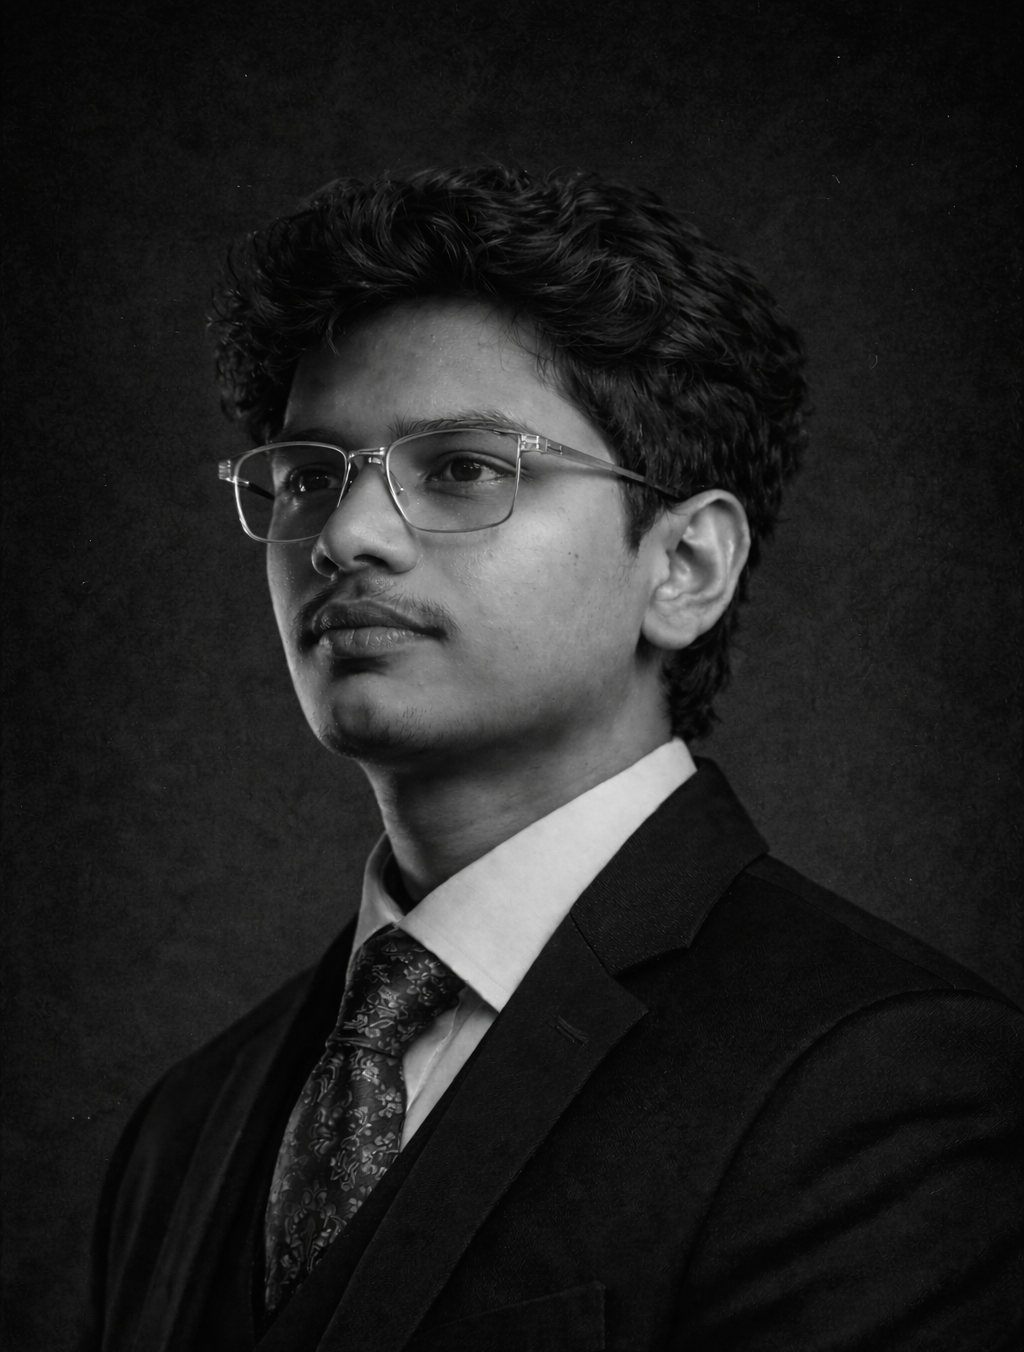
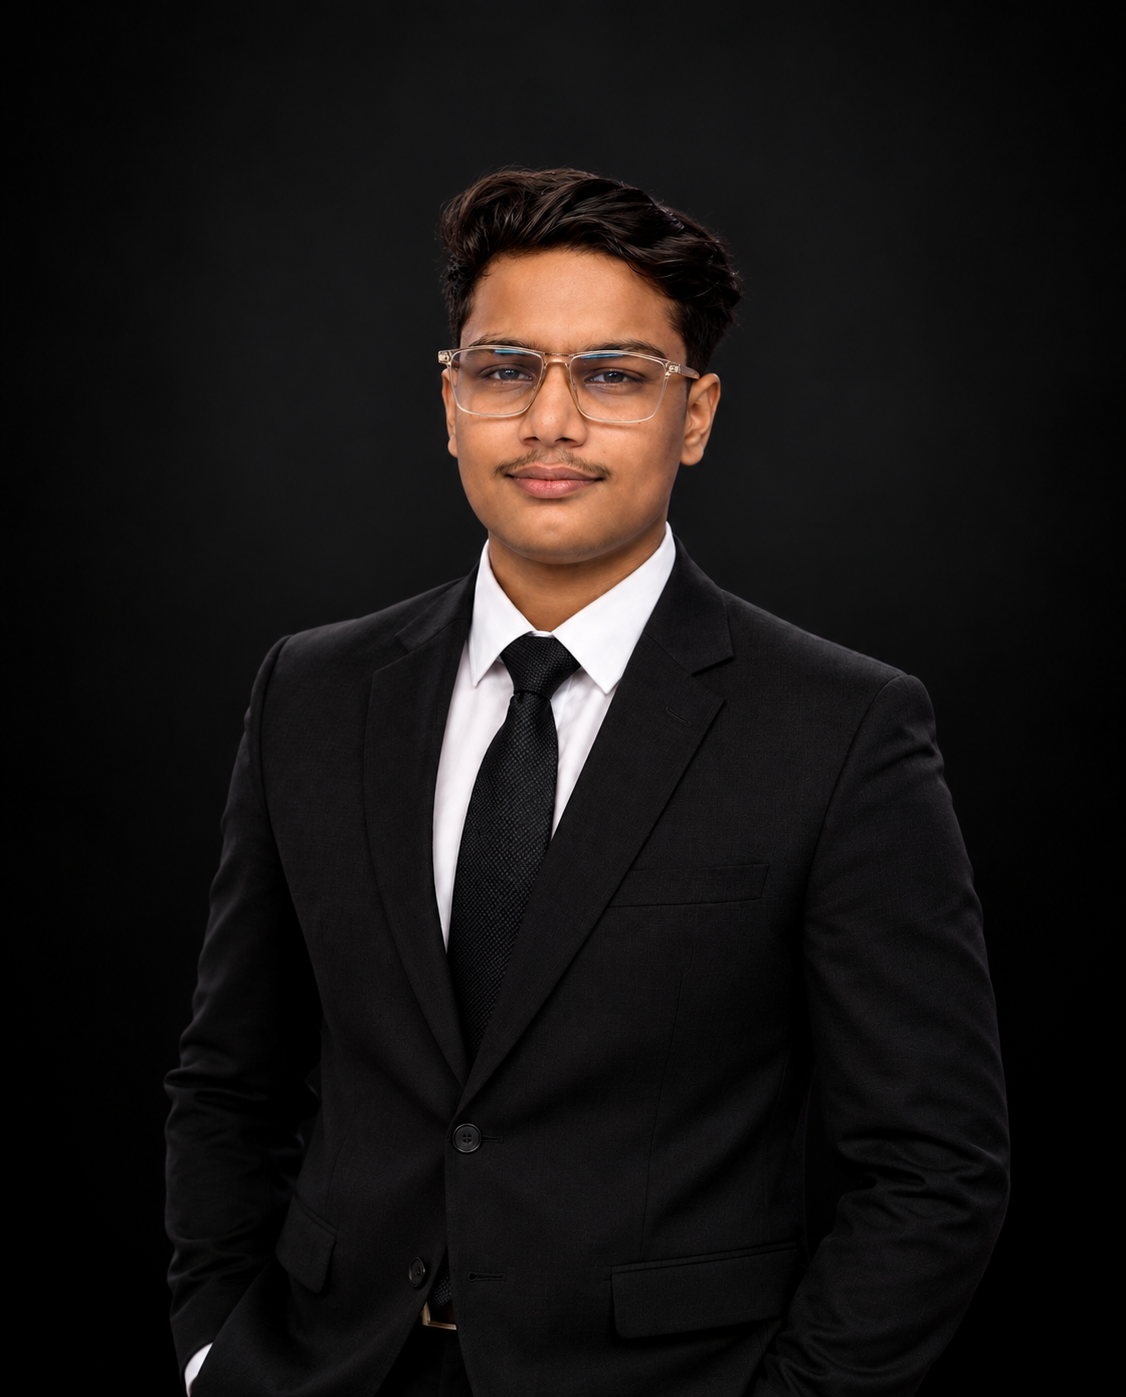
Adding New Image Assets

diff --git a/index.html b/index.html
@@ -161,7 +161,7 @@
 
       <div class="project-grid">
 
-        <a class="project-card" href="https://mokhata.onrender.com/">
+        <a class="project-card" href="https://mokhata-client.onrender.com/">
           <div class="project-image">
             <img src="./assets/images/mokhata.png" alt="MoKhata Digital Ledger Preview">
           </div>

diff --git a/styles.css b/styles.css
@@ -173,7 +173,7 @@ a:focus-visible {
   background-image: url("./assets/images/portrait.png");
   background-size: cover;
   background-position: center;
-  filter: grayscale(100%);
+
   z-index: 1;
 }
 
